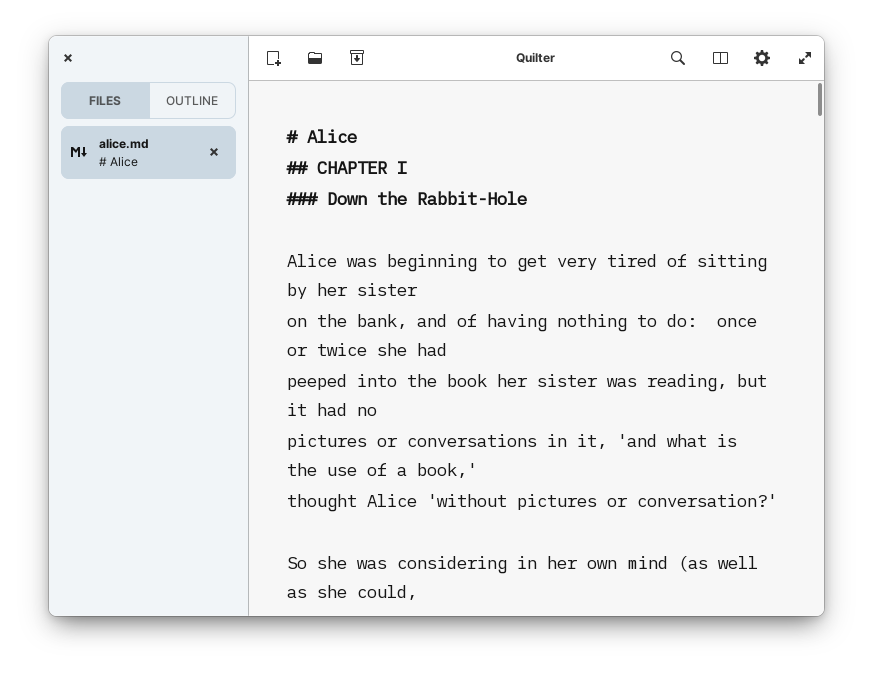
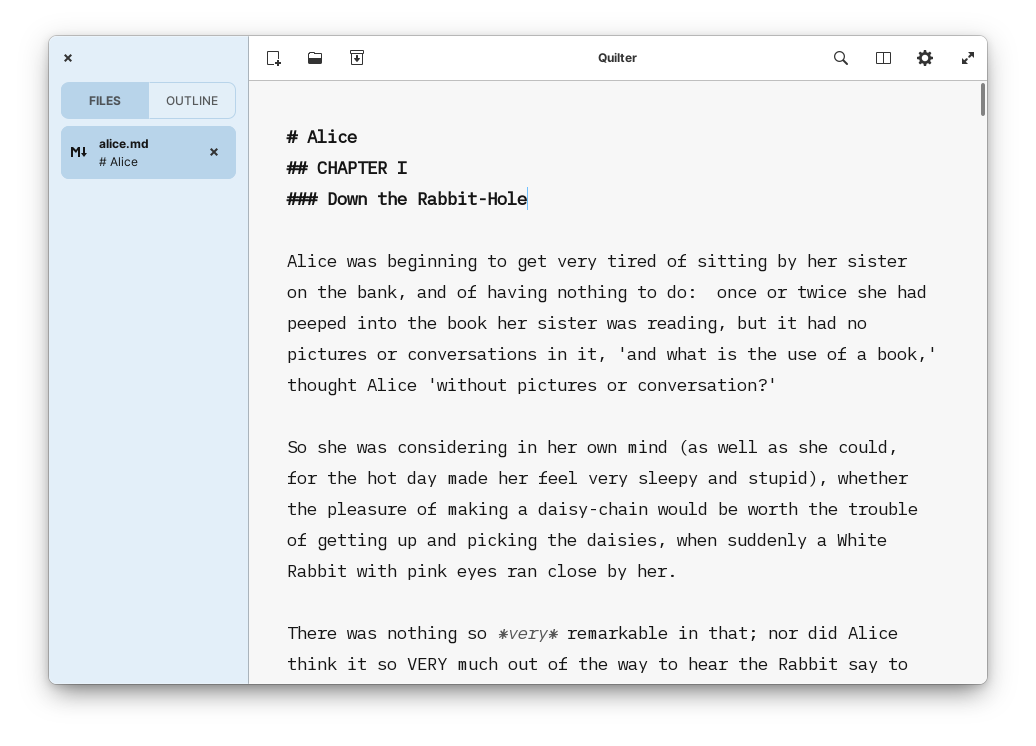
fix colors

diff --git a/data/styles/app-stylesheet-dark.css b/data/styles/app-stylesheet-dark.css
@@ -10,38 +10,45 @@
     background: @color_primary;
 }
 .quilter-sidebar-switcher {
-    background: mix(@accent, @base_color, 0.95);
+    background: mix(@accent, @color_primary, 0.85);
 }
 .quilter-sidebar-switcher button:not(:checked):not(:active) {
-    border: 1px solid shade(mix (@accent, @base_color, 0.95), 1.88);
-    background: mix (@accent, @base_color, 0.95);
+    border-top: 1px solid shade(mix (@accent, @color_primary, 0.85), 1.88);
+    border-bottom: 1px solid shade(mix (@accent, @color_primary, 0.85), 1.88);
+    background: mix (@accent, @color_primary, 0.85);
 }
 .quilter-sidebar-switcher button {
-    background: shade(mix (@accent, @base_color, 0.95), 1.88);
-    border: 1px solid shade(mix (@accent, @base_color, 0.95), 1.88);
+    background: shade(mix (@accent, @color_primary, 0.85), 1.88);
+    border: 1px solid transparent;
+}
+.quilter-sidebar-switcher button:first-child {
+    border-left: 1px solid shade(mix (@accent, @color_primary, 0.85), 1.88);
+}
+.quilter-sidebar-switcher button:last-child {
+    border-right: 1px solid shade(mix (@accent, @color_primary, 0.85), 1.88);
 }
 .quilter-dialog-hb button.radio:not(:checked):not(:active):not(.titlebutton) {
-    border: 1px solid shade(@base_color, 0.77);
-    background: @base_color;
+    border: 1px solid shade(@color_primary, 1.88);
+    background: @color_primary;
 }
 .quilter-dialog-hb button.radio:not(.titlebutton):not(.combo) {
-    background: shade(@base_color, 0.77);
-    border: 1px solid shade(@base_color, 0.77);
+    background: shade(@color_primary, 1.88);
+    border: 1px solid shade(@color_primary, 1.88);
 }
 .quilter-dialog-hb switch {
-    background: shade(@base_color, 0.5);
+    background: shade(@color_primary, 0.5);
 }
 .quilter-dialog-hb switch:checked {
     background: @accent;
 }
 
 .quilter-toolbar .image-button:hover {
-    background: shade(@base_color, 1.2);
+    background: shade(@color_primary, 1.2);
 }
 
 .quilter-toolbar .image-button:active,
 .quilter-toolbar .image-button.toggle:checked {
-    background: shade(@base_color, 1.2);
+    background: shade(@color_primary, 1.2);
 }
 
 .quilter-toolbar {
@@ -49,7 +56,7 @@
 }
 
 .quilter-toolbar-side {
-    background: mix(@accent, @base_color, 0.95);
+    background: mix(@accent, @color_primary, 0.85);
     border: none;
 }
 
@@ -60,13 +67,13 @@
 .quilter-sidebar {
     border-bottom-color: transparent;
     border-bottom-width: 1px;
-    background: mix(@accent, @base_color, 0.95);
+    background: mix(@accent, @color_primary, 0.85);
     color: @text_color;
 }
 
 .quilter-sidebar list,
 .quilter-sidebar treeview.view {
-    background: mix(@accent, @base_color, 0.95);
+    background: mix(@accent, @color_primary, 0.85);
     color: @text_color;
     box-shadow: 0 1px transparent inset;
 }
@@ -74,8 +81,8 @@
 .quilter-sidebar-box {
     padding: 3px;
     border-radius: 8px;
-    border: 1px solid shade(mix (@accent, @base_color, 0.95), 1.88);
-    background-color: mix (@accent, @base_color, 0.95);
+    border: 1px solid shade(mix (@accent, @color_primary, 0.85), 1.88);
+    background-color: mix (@accent, @color_primary, 0.85);
 }
 
 .quilter-sidebar-box:selected,
@@ -83,15 +90,15 @@
 .quilter-sidebar-box:hover {
     padding: 3px;
     border-radius: 8px;
-    border: 1px solid shade(mix (@accent, @base_color, 0.95), 1.88);
-    background-color: shade(mix (@accent, @base_color, 0.95), 1.88);
+    border: 1px solid shade(mix (@accent, @color_primary, 0.85), 1.88);
+    background-color: shade(mix (@accent, @color_primary, 0.85), 1.88);
     color: @text_color;
 }
 
 .preview-row:active,
 .preview-row:selected {
-    border: 1px solid shade(mix (@accent, @base_color, 0.95), 1.88);
-    background-color: shade(mix (@accent, @base_color, 0.95), 1.88);
+    border: 1px solid shade(mix (@accent, @color_primary, 0.85), 1.88);
+    background-color: shade(mix (@accent, @color_primary, 0.85), 1.88);
     color: @text_color;
 }
 

diff --git a/data/styles/app-stylesheet.css b/data/styles/app-stylesheet.css
@@ -10,15 +10,24 @@
     background: @color_primary;
 }
 .quilter-sidebar-switcher {
-    background: mix(@accent, @color_primary, 0.95);
+    background: mix(@accent, @color_primary, 0.85);
 }
 .quilter-sidebar-switcher button:not(:checked):not(:active) {
-    border: 1px solid shade(mix (@accent, @color_primary, 0.95), 0.88);
-    background: mix(@accent, @color_primary, 0.95);
+    border-top: 1px solid shade(mix (@accent, @color_primary, 0.85), 0.88);
+    border-bottom: 1px solid shade(mix (@accent, @color_primary, 0.85), 0.88);
+    background: mix(@accent, @color_primary, 0.85);
 }
 .quilter-sidebar-switcher button {
-    background: shade(mix (@accent, @color_primary, 0.95), 0.88);
-    border: 1px solid shade(mix (@accent, @color_primary, 0.95), 0.88);
+    background: shade(mix (@accent, @color_primary, 0.85), 0.88);
+    border: 1px solid transparent;
+}
+.quilter-sidebar-switcher button:first-child {
+    background: shade(mix (@accent, @color_primary, 0.85), 0.88);
+    border-left: 1px solid shade(mix (@accent, @color_primary, 0.85), 0.88);;
+}
+.quilter-sidebar-switcher button:last-child {
+    background: shade(mix (@accent, @color_primary, 0.85), 0.88);
+    border-right: 1px solid shade(mix (@accent, @color_primary, 0.85), 0.88);;
 }
 .quilter-dialog-hb button.radio:not(:checked):not(:active):not(.titlebutton) {
     border: 1px solid shade(@color_primary, 0.88);
@@ -36,12 +45,12 @@
 }
 
 .quilter-toolbar .image-button:hover {
-    background: shade(@color_primary, 0.95);
+    background: shade(@color_primary, 0.85);
 }
 
 .quilter-toolbar .image-button:active,
 .quilter-toolbar .image-button.toggle:checked {
-    background: shade(@color_primary, 0.95);
+    background: shade(@color_primary, 0.85);
 }
 
 .quilter-toolbar {
@@ -49,7 +58,7 @@
 }
 
 .quilter-toolbar-side {
-    background: mix(@accent, @color_primary, 0.95);
+    background: mix(@accent, @color_primary, 0.85);
     border: none;
 }
 
@@ -60,19 +69,19 @@
 .quilter-sidebar {
     border-bottom-color: transparent;
     border-bottom-width: 1px;
-    background: mix(@accent, @color_primary, 0.95);
+    background: mix(@accent, @color_primary, 0.85);
 }
 
 .quilter-sidebar list,
 .quilter-sidebar treeview.view {
-    background: mix(@accent, @color_primary, 0.95);
+    background: mix(@accent, @color_primary, 0.85);
 }
 
 .quilter-sidebar-box {
     padding: 3px;
     border-radius: 8px;
-    border: 1px solid shade(mix (@accent, @color_primary, 0.95), 0.88);
-    background-color: mix (@accent, @color_primary, 0.95);
+    border: 1px solid shade(mix (@accent, @color_primary, 0.85), 0.88);
+    background-color: mix (@accent, @color_primary, 0.85);
 }
 
 .quilter-sidebar-box:selected,
@@ -80,8 +89,8 @@
 .quilter-sidebar-box:hover {
     padding: 3px;
     border-radius: 8px;
-    border: 1px solid shade(mix (@accent, @color_primary, 0.95), 0.88);
-    background-color: shade(mix (@accent, @color_primary, 0.95), 0.88);
+    border: 1px solid shade(mix (@accent, @color_primary, 0.85), 0.88);
+    background-color: shade(mix (@accent, @color_primary, 0.85), 0.88);
     color: @text_color;
 }
 
@@ -107,8 +116,8 @@
 
 .preview-row:active,
 .preview-row:selected {
-    border: 1px solid alpha(shade(mix (@accent, @color_primary, 0.95), 0.88), 0.25);
-    background-color: alpha(shade(mix (@accent, @color_primary, 0.95), 0.88), 0.25);
+    border: 1px solid alpha(shade(mix (@accent, @color_primary, 0.85), 0.88), 0.25);
+    background-color: alpha(shade(mix (@accent, @color_primary, 0.85), 0.88), 0.25);
     color: @text_color;
 }
 

diff --git a/data/styles/app-main-stylesheet.css b/data/styles/app-main-stylesheet.css
@@ -148,21 +148,15 @@ window.unified decoration-overlay {
     border-radius: 8px 0 0 8px;
     background: mix(@prefs_accent, @color_primary, 0.95);
 }
-.quilter-prefs-vs button:first-child {
-    border-right: 1px solid transparent;
-}
 .quilter-prefs-vs button:not(:first-child):not(:last-child) {
     box-shadow: none;
     background-image: none;
     border-radius: 0;
-    border-right: 1px solid transparent;
-    border-left: 1px solid transparent;
 }
 .quilter-prefs-vs button:last-child {
     box-shadow: none;
     background-image: none;
     border-radius: 0 8px 8px 0;
-    border-left: 1px solid transparent;
 }
 .quilter-prefs-vs button label {
     font-weight: 700;
@@ -177,12 +171,22 @@ window.unified decoration-overlay {
     padding-top: 0.5em;
 }
 .quilter-prefs-vs button:not(:checked):not(:active) {
-    border: 1px solid shade(mix (@prefs_accent, @color_primary, 0.95), 0.88);
+    
+    border-top: 1px solid shade(mix (@prefs_accent, @color_primary, 0.95), 0.88);
+    border-bottom: 1px solid shade(mix (@prefs_accent, @color_primary, 0.95), 0.88);
     background: mix(@prefs_accent, @color_primary, 0.95);
 }
 .quilter-prefs-vs button {
     background: shade(mix (@prefs_accent, @color_primary, 0.95), 0.88);
-    border: 1px solid shade(mix (@prefs_accent, @color_primary, 0.95), 0.88);
+    border: 1px solid transparent;
+}
+.quilter-prefs-vs button:first-child {
+    background: shade(mix (@prefs_accent, @color_primary, 0.95), 0.88);
+    border-left: 1px solid shade(mix (@prefs_accent, @color_primary, 0.95), 0.88);
+}
+.quilter-prefs-vs button:last-child {
+    background: shade(mix (@prefs_accent, @color_primary, 0.95), 0.88);
+    border-right: 1px solid shade(mix (@prefs_accent, @color_primary, 0.95), 0.88);
 }
 
 .title {

diff --git a/data/styles/app-stylesheet-sepia.css b/data/styles/app-stylesheet-sepia.css
@@ -18,7 +18,13 @@
 }
 .quilter-sidebar-switcher button {
     background: shade(mix (@accent, @color_primary, 0.85), 0.88);
-    border: 1px solid shade(mix (@accent, @color_primary, 0.85), 0.88);
+    border: 1px solid transparent;
+}
+.quilter-sidebar-switcher button:first-child {
+    border-left: 1px solid shade(mix (@accent, @color_primary, 0.85), 0.88);;
+}
+.quilter-sidebar-switcher button:last-child {
+    border-right: 1px solid shade(mix (@accent, @color_primary, 0.85), 0.88);;
 }
 .quilter-dialog-hb button.radio:not(:checked):not(:active):not(.titlebutton) {
     border: 1px solid shade(@color_primary, 0.88);
@@ -26,7 +32,7 @@
 }
 .quilter-dialog-hb button.radio:not(.titlebutton):not(.combo) {
     background: shade(@color_primary, 0.88);
-    border: 1px solid shade(@color_primary, 0.88);
+    border: 1px solid transparent;
 }
 .quilter-dialog-hb switch {
     background: shade(@color_primary, 0.88);
